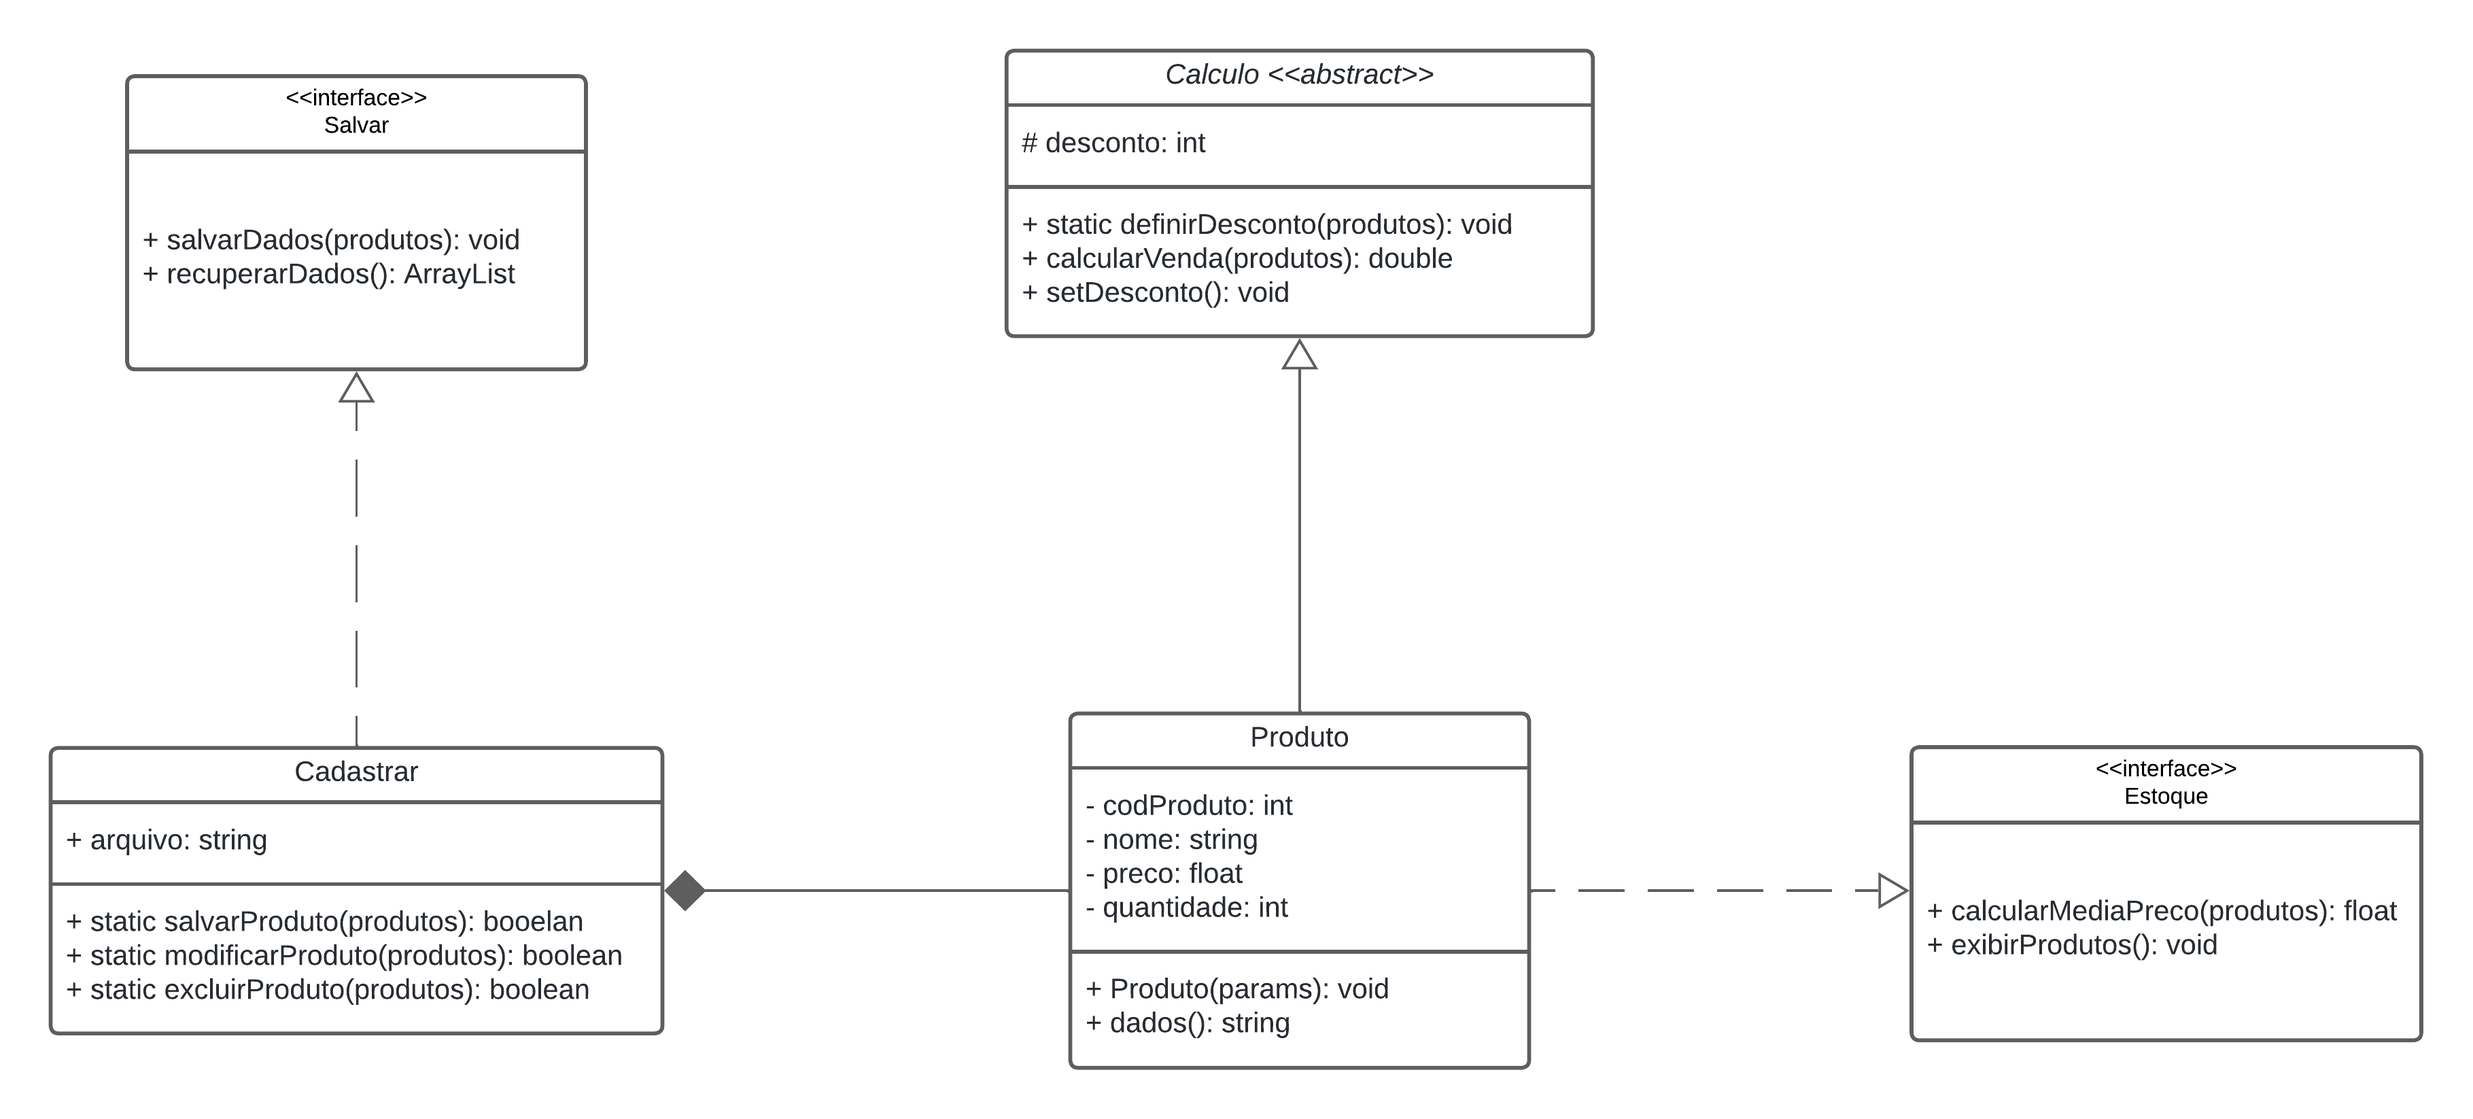
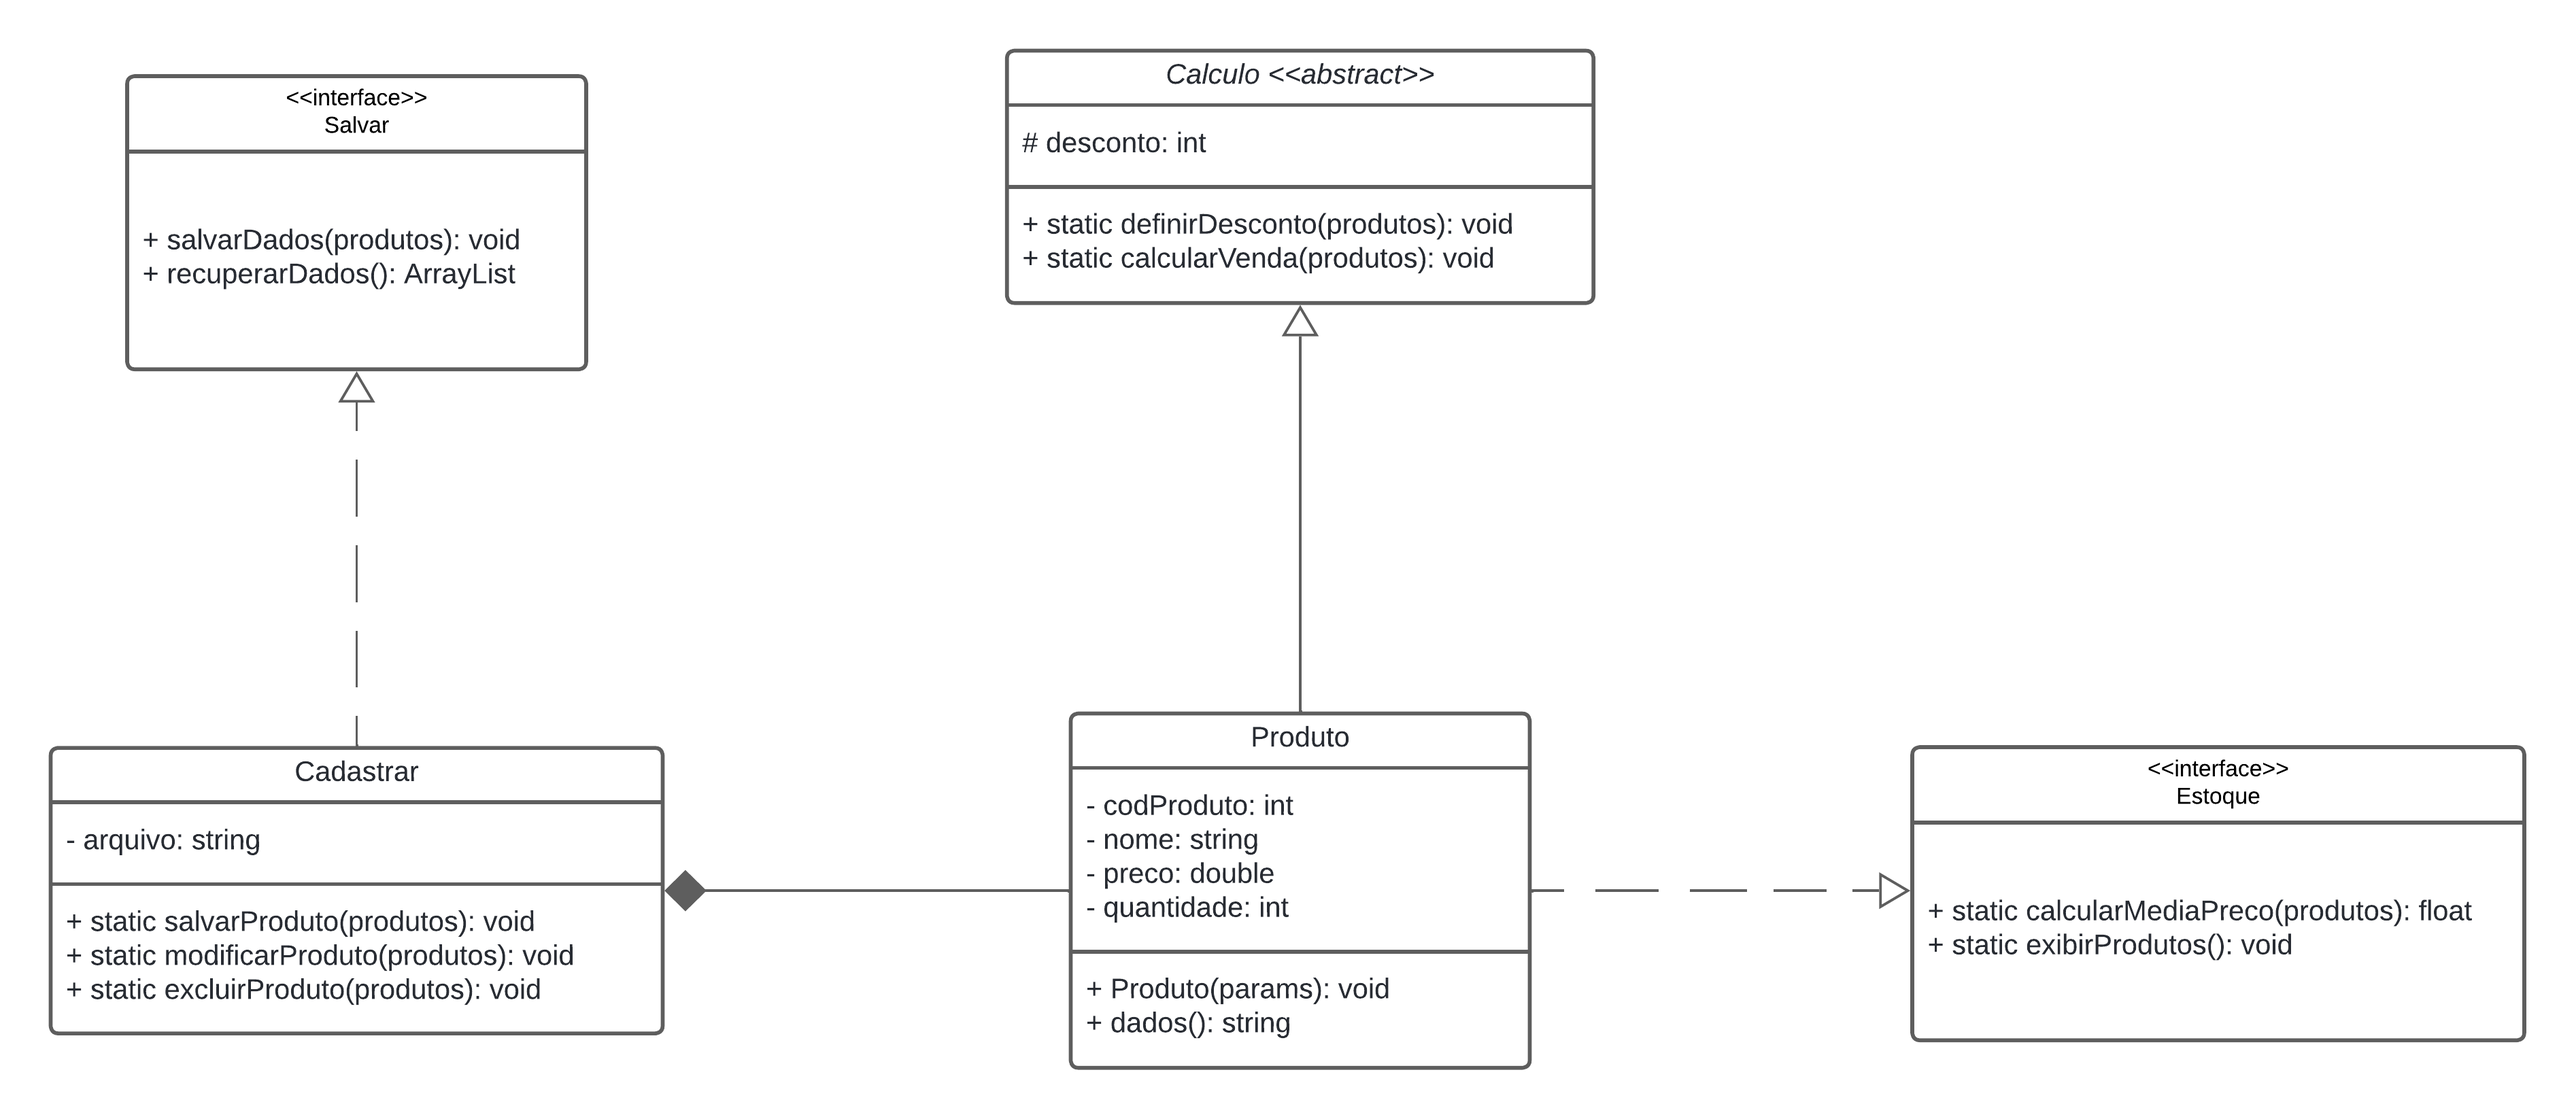
refactor: mudado o nome dos metodos

diff --git a/AVC_POO/src/avc_poo/Produto.java b/AVC_POO/src/avc_poo/Produto.java
@@ -3,7 +3,9 @@ package avc_poo;
 import java.util.ArrayList;
 
 interface Estoque{
-    public float calcularMediaPreco(ArrayList<Produto> produtos);
+    public static float calcularMediaPreco(ArrayList<Produto> produtos){
+        return 0.0f;
+    }
 
     public static void exibirProdutos(ArrayList<Produto> produtos){
         System.out.println(" ------ Produtos da loja ------ ");
@@ -13,7 +15,7 @@ interface Estoque{
             System.out.println("| ID | \tNome do Produto \t | Preco \t|  Quantidade  |  Desconto  |");
             for(int i = 0; i < produtos.size(); i++){
                 Produto produto = produtos.get(i);
-                System.out.print("|  " + produto.data().replace("; ", " | ") + " |");
+                System.out.print("|  " + produto.dados().replace("; ", " | ") + " |");
                 System.out.println();
             }
         } else {
@@ -27,8 +29,8 @@ interface Estoque{
 public class Produto extends Calculo implements Estoque {
     private int codProduto = 1;
     private String nome;
-    private int quantidade;
     private double preco;
+    private int quantidade;
     
     public Produto(int codProduto, String nome, double preco , int quantidade){
         this.codProduto = codProduto;
@@ -61,15 +63,10 @@ public class Produto extends Calculo implements Estoque {
         this.preco = preco;
     }
 
-    public String data(){
+    public String dados(){
         String preco_format = String.format("%.2f", preco).replace(",", ".");
 
         return codProduto+ "; "+nome.trim() + "; " + preco_format + "; " + quantidade+ "; " + desconto;
-    }
-
-    public float calcularMediaPreco(ArrayList<Produto> produtos){
-        // TODO: fazer a logica para pegar o preco dos produtos e calcular a sua media;
-        return 0.00f;
     }
 
 }

diff --git a/AVC_POO/src/avc_poo/Cadastrar.java b/AVC_POO/src/avc_poo/Cadastrar.java
@@ -138,7 +138,7 @@ public class Cadastrar implements Salvar{
         try{
             FileWriter banco_dados = new FileWriter(arquivo);
             for(Produto produto : produtos){
-                banco_dados.write(produto.data()+"\n");
+                banco_dados.write(produto.dados()+"\n");
             }
             banco_dados.close();
         } catch (IOException e){
